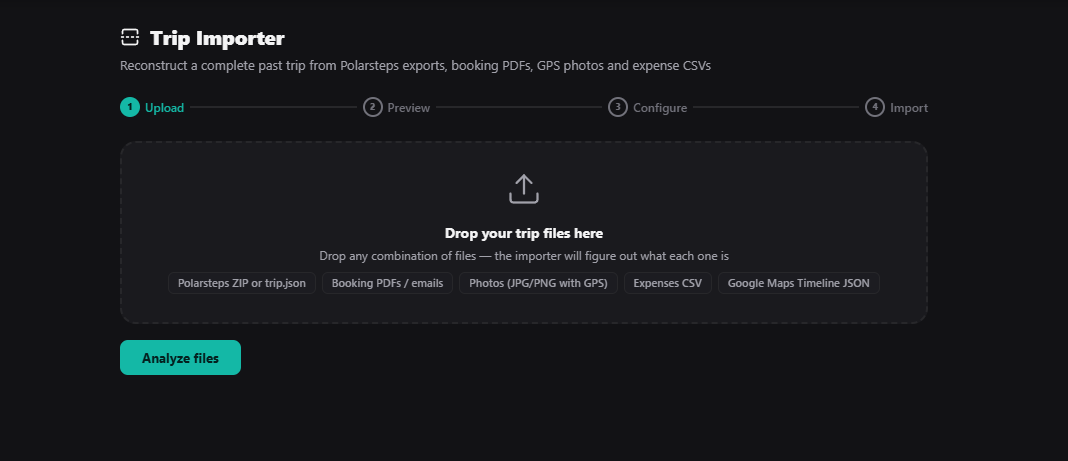
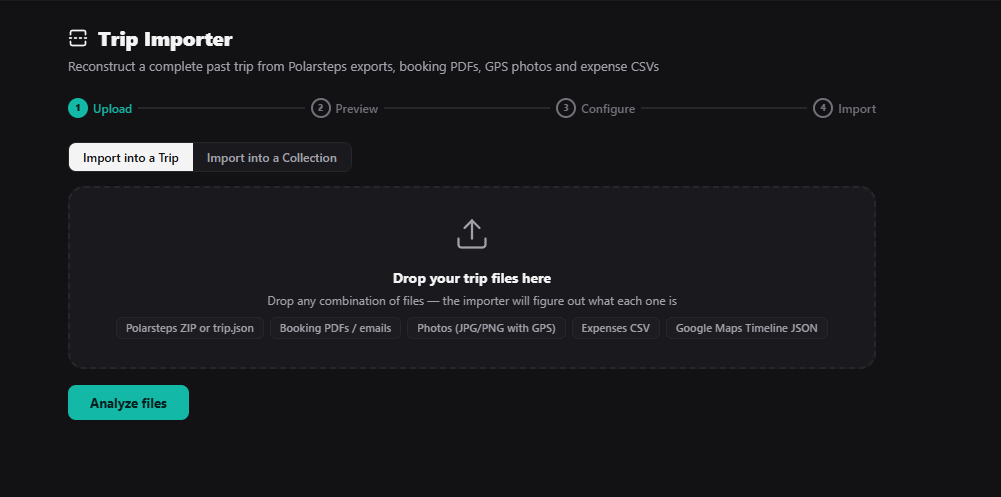
Update store screenshot and document the Google/Naver list-import fix
- Refresh docs/screenshot.png
- CLAUDE.md: document the confirmed consent-wall bug in the shared-list
  link resolver and the pattern-aware redirect fix (resolveRedirectChain)

diff --git a/CLAUDE.md b/CLAUDE.md
@@ -165,6 +165,39 @@ Server-side, `/import` branches on `options.journalOnly` right after building th
 
 Client-side (`importOneTarget()`), journal-only mode reduces the progress-step list to just `journal` (skipping `trip`/`days`/`places`/`bookings`/`pdfbooks`/`costs` entirely) and forces every other "what to import" checkbox off+disabled via `toggleJournalOnly()`. The PDF-attach and photo-upload phases further down *already* guard on `result.tripId` being truthy, so they no-op automatically once `tripId` is `null` — no extra gating needed there. **`/undo-import` had to be changed to accept a missing `tripId`**: it used to hard-require one (`if (!tripId || !refs.length) return ...`), but `journalEntry`/`journey` deletes (`ctx.journal.deleteEntry(id)`/`deleteJourney(id)`) never took a `tripId` to begin with — only `place`/`reservation`/`accommodation`/`cost`/`file`/`daynote` refs are actually trip-scoped, so the route now only requires `tripId` for *those* ref types specifically. The client's own `doUndoImport()` had the identical bug (`batches.filter(b => b.tripId && ...)`, which would have silently excluded every journal-only batch from ever being undoable) — fixed the same way, by dropping the `tripId` truthiness requirement from the filter.
 
+### Collection mode: importing places into a Collection instead of a Trip
+
+`importMode` (`setImportMode()`, toggled at the very top of Step 1) is a second, almost entirely separate import target alongside the normal Trip flow — a **Collection** (`ctx.collections.*`) is a user-owned saved-place list with no trip, no dates, no days, no itinerary at all, closer in spirit to a Google Maps "saved places" list than to a trip plan. It shares the same 4-step visual shell (`step-1`..`step-4`) but runs almost entirely separate functions (`doAnalyzeCollection()`/`renderCollectionPreview()`/`prepareCollectionStep3()`/`doImportCollection()`), gated behind `importMode==='collection'` checks at the very top of `doAnalyze()`/`doImport()`/`goStep(3)` — deliberately, so the existing (well-tested) Trip flow's own functions stay untouched rather than growing conditional branches throughout.
+
+The exact shape of `ctx.collections.*` came from reading TREK's actual source (not just the plugin-sdk's loosely-typed `Record<string, unknown>` signatures) — `shared/src/collection/collection.schema.ts`'s zod schemas gave the real field names: `ctx.collections.create({name})` → `{id, ...}`; `ctx.collections.savePlace({collection_id, name, lat, lng, address?, notes?, ...})` → `{place?, duplicate?, duplicateOf?}` (a **built-in dedup precheck** — a duplicate returns normally with `duplicate:true` rather than throwing, no `force:true` sent by this plugin so duplicates are always skipped rather than double-saved). `wiki/Plugin-Cookbook.md`'s one-line collections recipe confirmed the minimal call shape before the full schema file confirmed every field.
+
+Three new sources feed Collection mode, all producing the same flat `{name, lat, lng, address?, notes?, date?}` shape with **no proximity clustering** (unlike GPS-photo/timeline points for a trip) — each entry here already carries its own distinct name, so clustering would wrongly merge two differently-named places that happen to sit near each other:
+- **Google Maps Takeout "Saved Places" export** (`/parse-google-places`) — a GeoJSON `FeatureCollection`. **Unconfirmed against a real current export** — built from general knowledge of the format (no sample was available, only a live Google Maps share link, which redirects through a cookie-consent wall and isn't the same thing as a Takeout file anyway). At least two known property-naming variants exist across Takeout versions (lowercase `properties.location.{name,address,geo_coordinates}` vs capitalized `properties.Location["Business Name"/"Address"/"Geo Coordinates"]`); the parser tries several known paths and falls back gracefully. `geometry.coordinates` (plain GeoJSON `[lng,lat]`) is tried first for coordinates since it's the most likely field to stay stable regardless of which `properties` variant a given export uses. **Needs real-world testing against an actual export to confirm or correct.**
+- **KML/KMZ** (existing `parseKMLText()`, already used for trip GPX/KML places) — reused as-is, just routed to `parsedCollection.places` instead of a trip target.
+- **Generic place-list CSV** (`/parse-places-csv`) — fuzzy header matching (`name`/`lat`/`lng`/`address`/`notes`/`date`), mirroring `/parse-csv`'s expense-column matching but for place columns; a row with no recognizable lat/lng is skipped.
+
+Server-side, `/import-collection` mirrors `/import`'s index-resumable shape (progress carries the next place index + running totals across rounds) and the same windowed-pagination pattern (`placesOffset`/`totalPlaces`, `PLACES_PER_ROUND=40` client-side) for the same reason: a large saved-places export can push the request past the confirmed ~100KB plugin-route body-size ceiling just as easily as a large trip can. A new collection is created **once** (guarded by `p.collectionId` already being set, exactly like `p.journeyId`/`p.tripId` elsewhere) and reused across resumed rounds. `/undo-import` gained a `collectionPlace` ref type (`ctx.collections.deletePlace(id)`, no `tripId` needed — same non-trip-scoped category as `journalEntry`/`journey`); the collection itself is never deleted by undo, matching the existing convention that trips/journeys aren't deleted either, only their contents.
+
+New permissions: `db:read:collections` (list existing collections for the "add to existing" picker) and `db:write:collections` (create a collection, save places into it).
+
+### Pasting a shared Google/Naver Maps list link directly (no export file needed)
+
+A fourth Collection-mode source, alongside the Google Takeout GeoJSON/KML/CSV file-drop sources above: a text field in step 1 (`#collection-link-row`, shown only in Collection mode) where the user pastes a share link straight from Google Maps' or Naver Maps' own "Share list" button, no export step required at all.
+
+This exists because **TREK's own core app already has this feature** — a native "List Import" (Google List / Naver List) that does the same thing against a trip, confirmed by reading the actual source (`server/src/services/placeService.ts`'s `importGoogleList()`/`importNaverList()`, `liketrek/TREK`, AGPL-3.0). The user pointed this out after being told a Google Maps share link couldn't be resolved server-side — a live test of the user's real share link confirmed a plain fetch does redirect through `consent.google.com` (a GDPR interstitial no plugin fetch can click through), but reading TREK core's own implementation showed **that's not how TREK does it either**: it never needs to interact with the consent page at all.
+
+**The actual mechanism** (ported logic-for-logic, not code-for-code, into `/parse-google-list` and `/parse-naver-list` in `server/index.js`):
+- For a `goo.gl`/`maps.app.goo.gl` short link, follow the redirect (`fetch(url, {redirect:'follow'})`, reading `res.url`) — but only far enough to get the **resolved URL string**, never rendering or interacting with the destination page. Even when that resolved URL is itself a `consent.google.com/ml?continue=<encoded-original-url>` interstitial, the list ID substring (`!2s<id>` or `placelists/list/<id>`) survives intact inside the `continue=` param, because `!` isn't URL-escaped by Google's own redirect construction — so a plain regex still finds it without ever loading that interstitial.
+- That list ID is then handed to a **completely separate, unauthenticated internal Google Maps AJAX endpoint** — `https://www.google.com/maps/preview/entitylist/getlist?...&gl=us&pb=!1m1!1s<listId>!2e2!3e2!4i500!16b1` — the same call Google Maps' own web frontend makes to populate a list side-panel, not part of the consent-gated interactive page-view flow at all. `gl=us` on *this* endpoint (not the redirect) is what avoids the EU consent gate.
+- The response has a one-line XSSI-prevention prefix (`)]}'`-style) that must be stripped before `JSON.parse`. The parsed shape is Google's typical deeply-nested undocumented array-of-arrays: `listData[0]` is the metadata block, `[4]` is the list name, `[8]` is the items array; per item, `item[2]` is the name, `item[3]` is a note, and `item[1][5]` is the coords sub-array where `[2]`/`[3]` are **lat/lng in that order** (not GeoJSON `[lng,lat]`). A Google feature ID (`google_ftid`, passed through to `ctx.collections.savePlace()` for parity with what TREK's own core import produces) is extracted via `googleMapsFeatureIdFromItem()`/`googleMapsHexId()` — ported verbatim from TREK core, checking two possible nested locations (`item[1][6]` or `item[7][1]`) and BigInt-encoding a signed decimal ID into TREK's `0x...` hex convention when needed.
+- Naver's `naver.me` short links resolve the same way (follow redirect, regex out a `favorite/myPlace/folder/<id>` folder ID), but the actual data API — `https://pages.map.naver.com/save-pages/api/maps-bookmark/v3/shares/<folderId>/bookmarks?...` — is a normal, documented-shape JSON API, not an undocumented array walk: `item.py`/`item.px` are lat/lng (Naver's own y/x-order field names), `item.name`/`item.displayName`, `item.memo` (notes), `item.address`. It's genuinely paginated (`start`/`limit=20` against `folder.bookmarkCount`), looped here up to a 500-place cap per call as a sanity bound (TREK core's own version has no cap at all, looping the full `bookmarkCount`).
+
+**This is an undocumented, unofficial technique with no stability guarantee** — same caveat TREK's own core code carries; there's no fallback if either endpoint's shape changes. A single-*place* share link (as opposed to a *list* link) is explicitly rejected with a pointed error message (`/maps/place/` in the resolved URL) rather than a confusing "no list ID found", mirroring TREK core's own UX for that same case.
+
+**Confirmed against a real instance: naively following the redirect chain to its end breaks, because it runs straight into the consent wall this whole approach was supposed to route around.** The first implementation used a generic `fetchFollowRedirect()` that always resolved a short link all the way to its final URL, one explicit `fetch()` per hop, then ran the list-ID regexes only against that final URL. In production this returned `{"error":"egress: consent.google.com is not in the plugin's declared hosts"}` — the real `maps.app.goo.gl` chain is `maps.app.goo.gl → www.google.com/maps/@/data=...!2s<listId>... → consent.google.com/ml?...`, and the second hop, not the first, is where the chain actually lands when followed to completion. Adding `consent.google.com` to egress would be the wrong fix — TREK core's own `importGoogleList()` never needs to *read* that page either (it has no plugin-style egress restriction, so it simply doesn't care which host it lands on before extracting the substring). **The list ID is already present one hop earlier** — in the `Location` header of the *first* redirect (the `www.google.com/maps/@/data=...` URL), before the second hop is ever fetched. Fixed by replacing `fetchFollowRedirect()` with `resolveRedirectChain(url, matchFn, timeoutMs)`, which checks `matchFn` (a per-route closure running the list-ID/folder-ID regex) against each redirect's `Location` header **before** deciding whether to fetch it, and returns immediately on a match — so the never-declared, never-needed `consent.google.com` hop is never actually requested. Any future pattern-extraction-from-a-redirect-chain code in this plugin should use `resolveRedirectChain()`, not a bare "follow to the end" resolver — a short link's *final* destination is not a safe assumption when intermediate hosts (consent walls, login walls, tracking redirectors) may be neither reachable nor necessary.
+
+New egress needed for this, since it's a materially larger footprint than the plugin's previous single-domain (`nominatim.openstreetmap.org`) + CDN (`polarsteps.s3.amazonaws.com`) egress list: `www.google.com`, `maps.app.goo.gl`, `goo.gl`, `naver.me`, `pages.map.naver.com` — both in `permissions` (as `http:outbound:*`) and `egress`. Done server-side, not client-side, deliberately: even if CORS didn't block a browser-side fetch to these endpoints (it likely would, since neither sets permissive `Access-Control-Allow-Origin` headers for arbitrary origins), Node's `fetch` has no CORS enforcement at all, making server-side the only reliable option — consistent with `reverseGeocode()`'s own precedent of hitting external APIs from `server/index.js`, not the client.
+
 ### External API usage
 
 `reverseGeocode(lat, lng)` calls `nominatim.openstreetmap.org/reverse` directly with `fetch`, always followed by `sleep(1100)` to respect Nominatim's 1 req/sec limit. `ctx.*.create()` calls are also throttled with small sleeps (80-150ms) between iterations during bulk import. Any new external call must be added to both `permissions` (`http:outbound:...`) and `egress` in `trek-plugin.json`.
